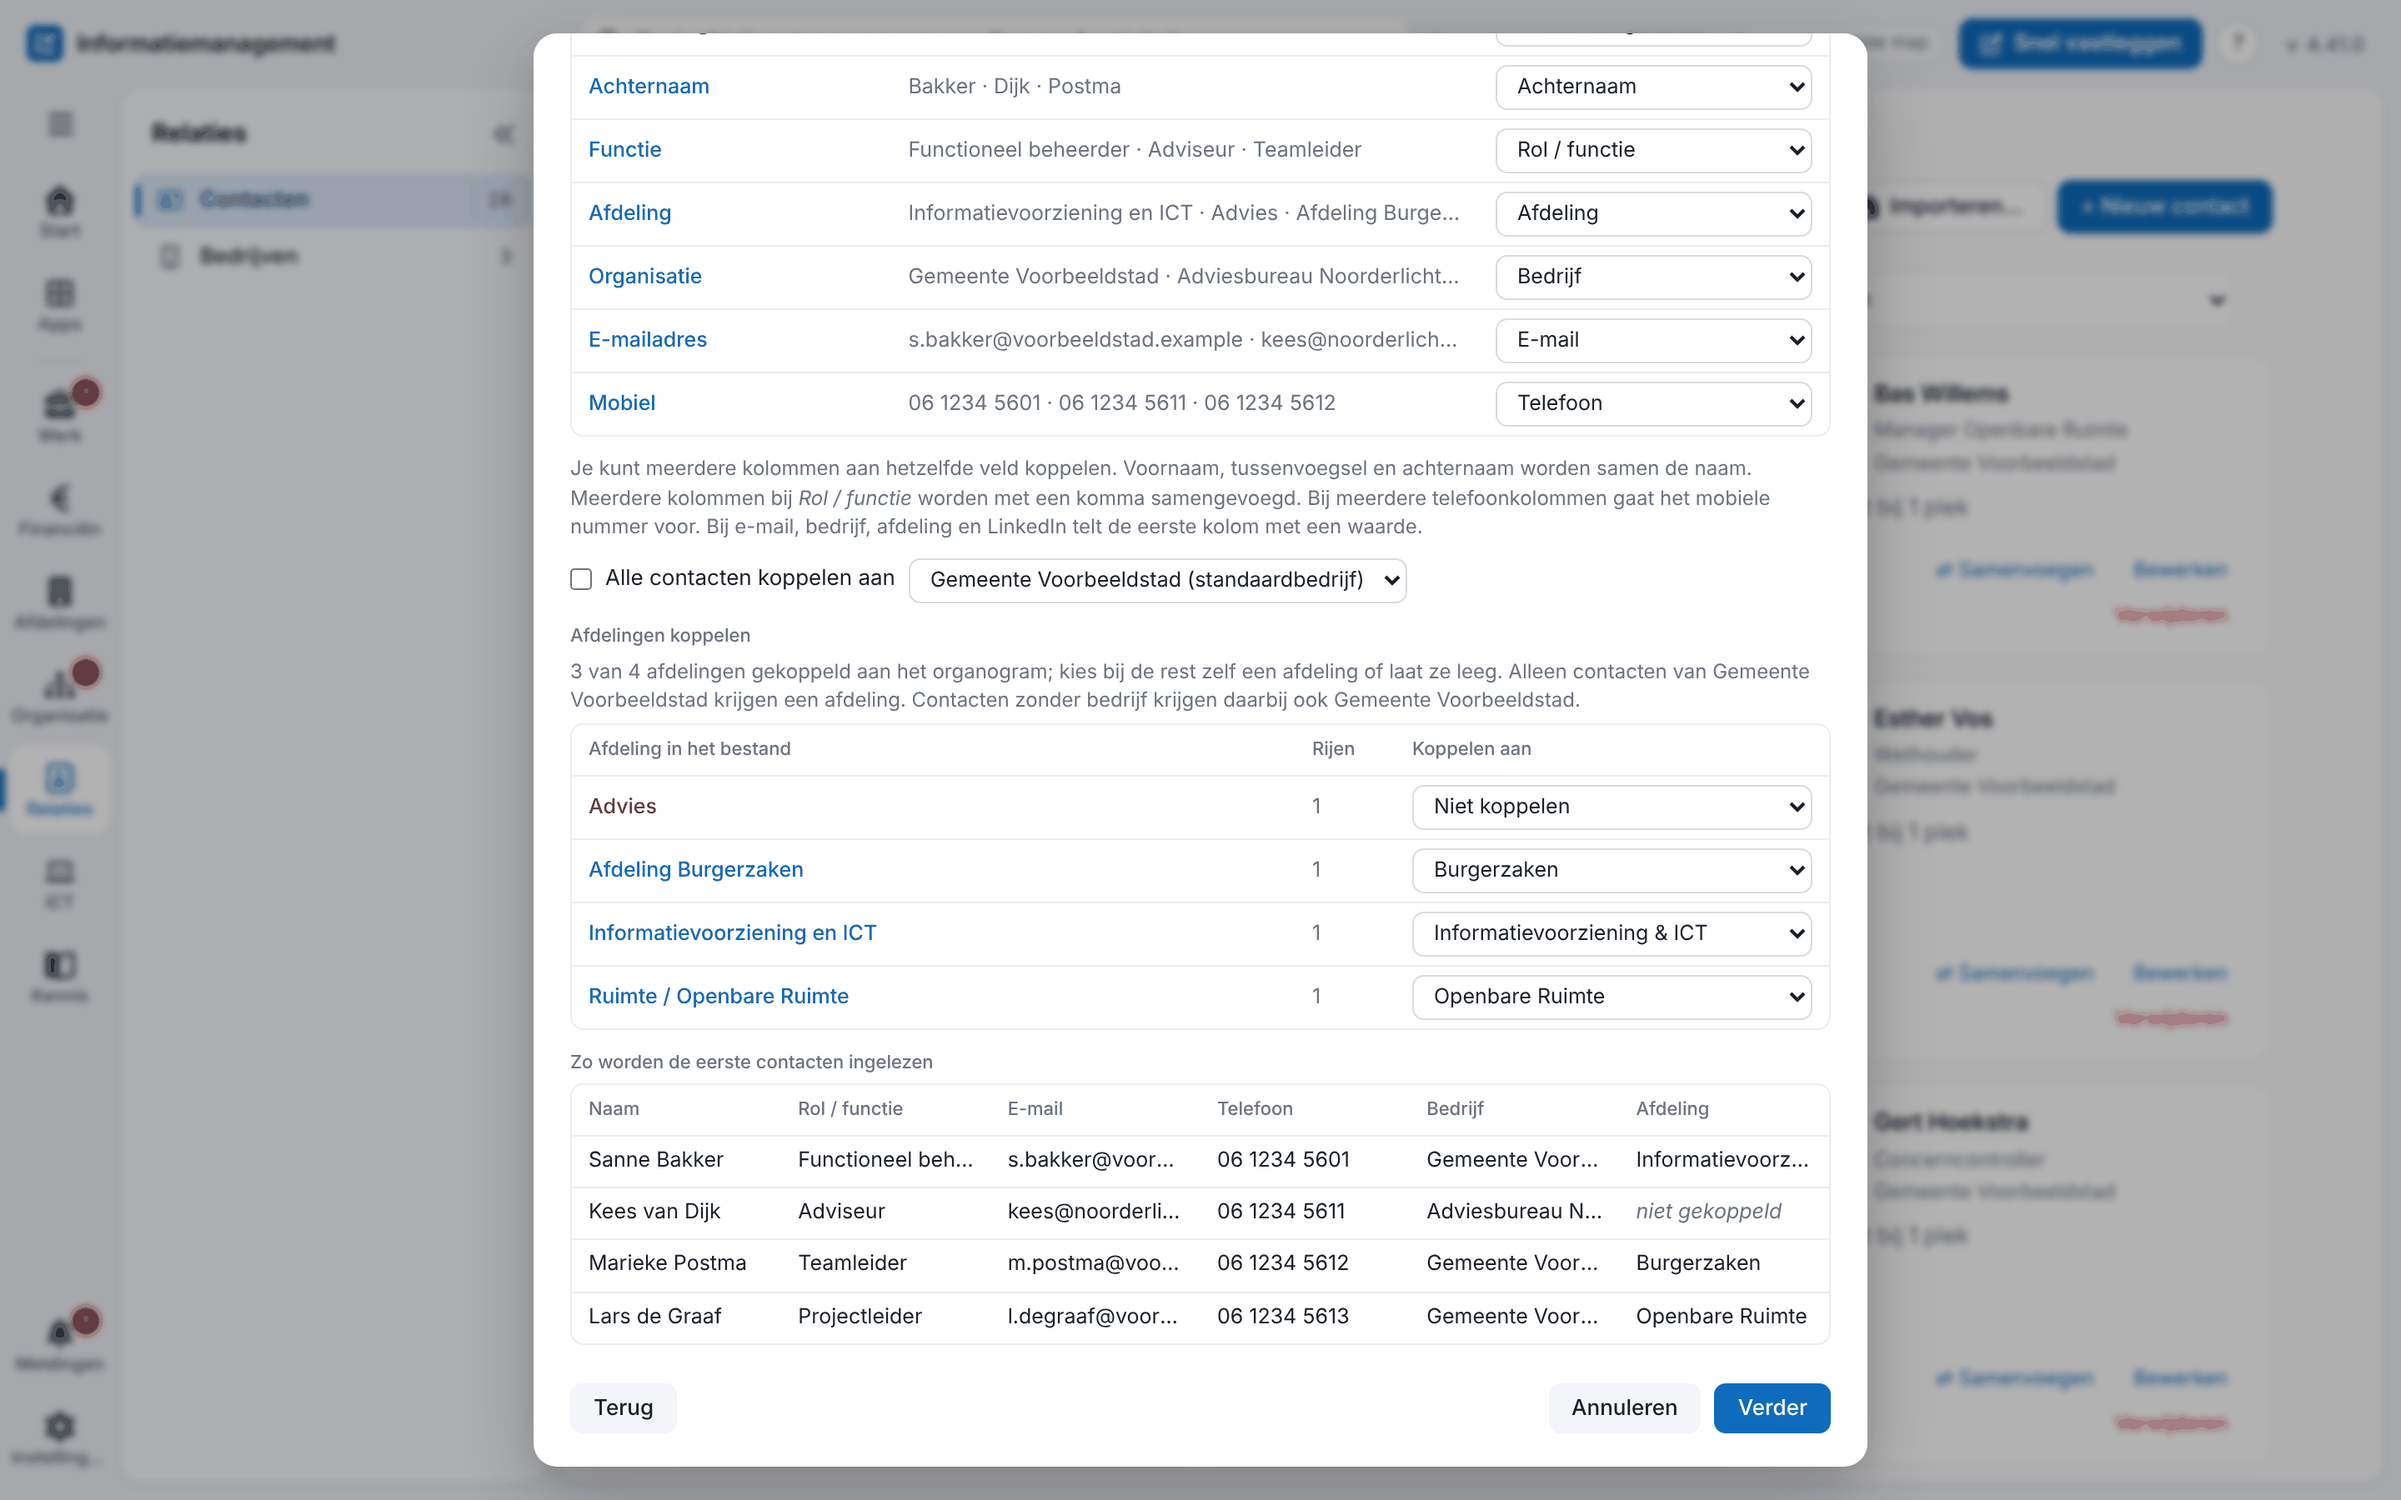
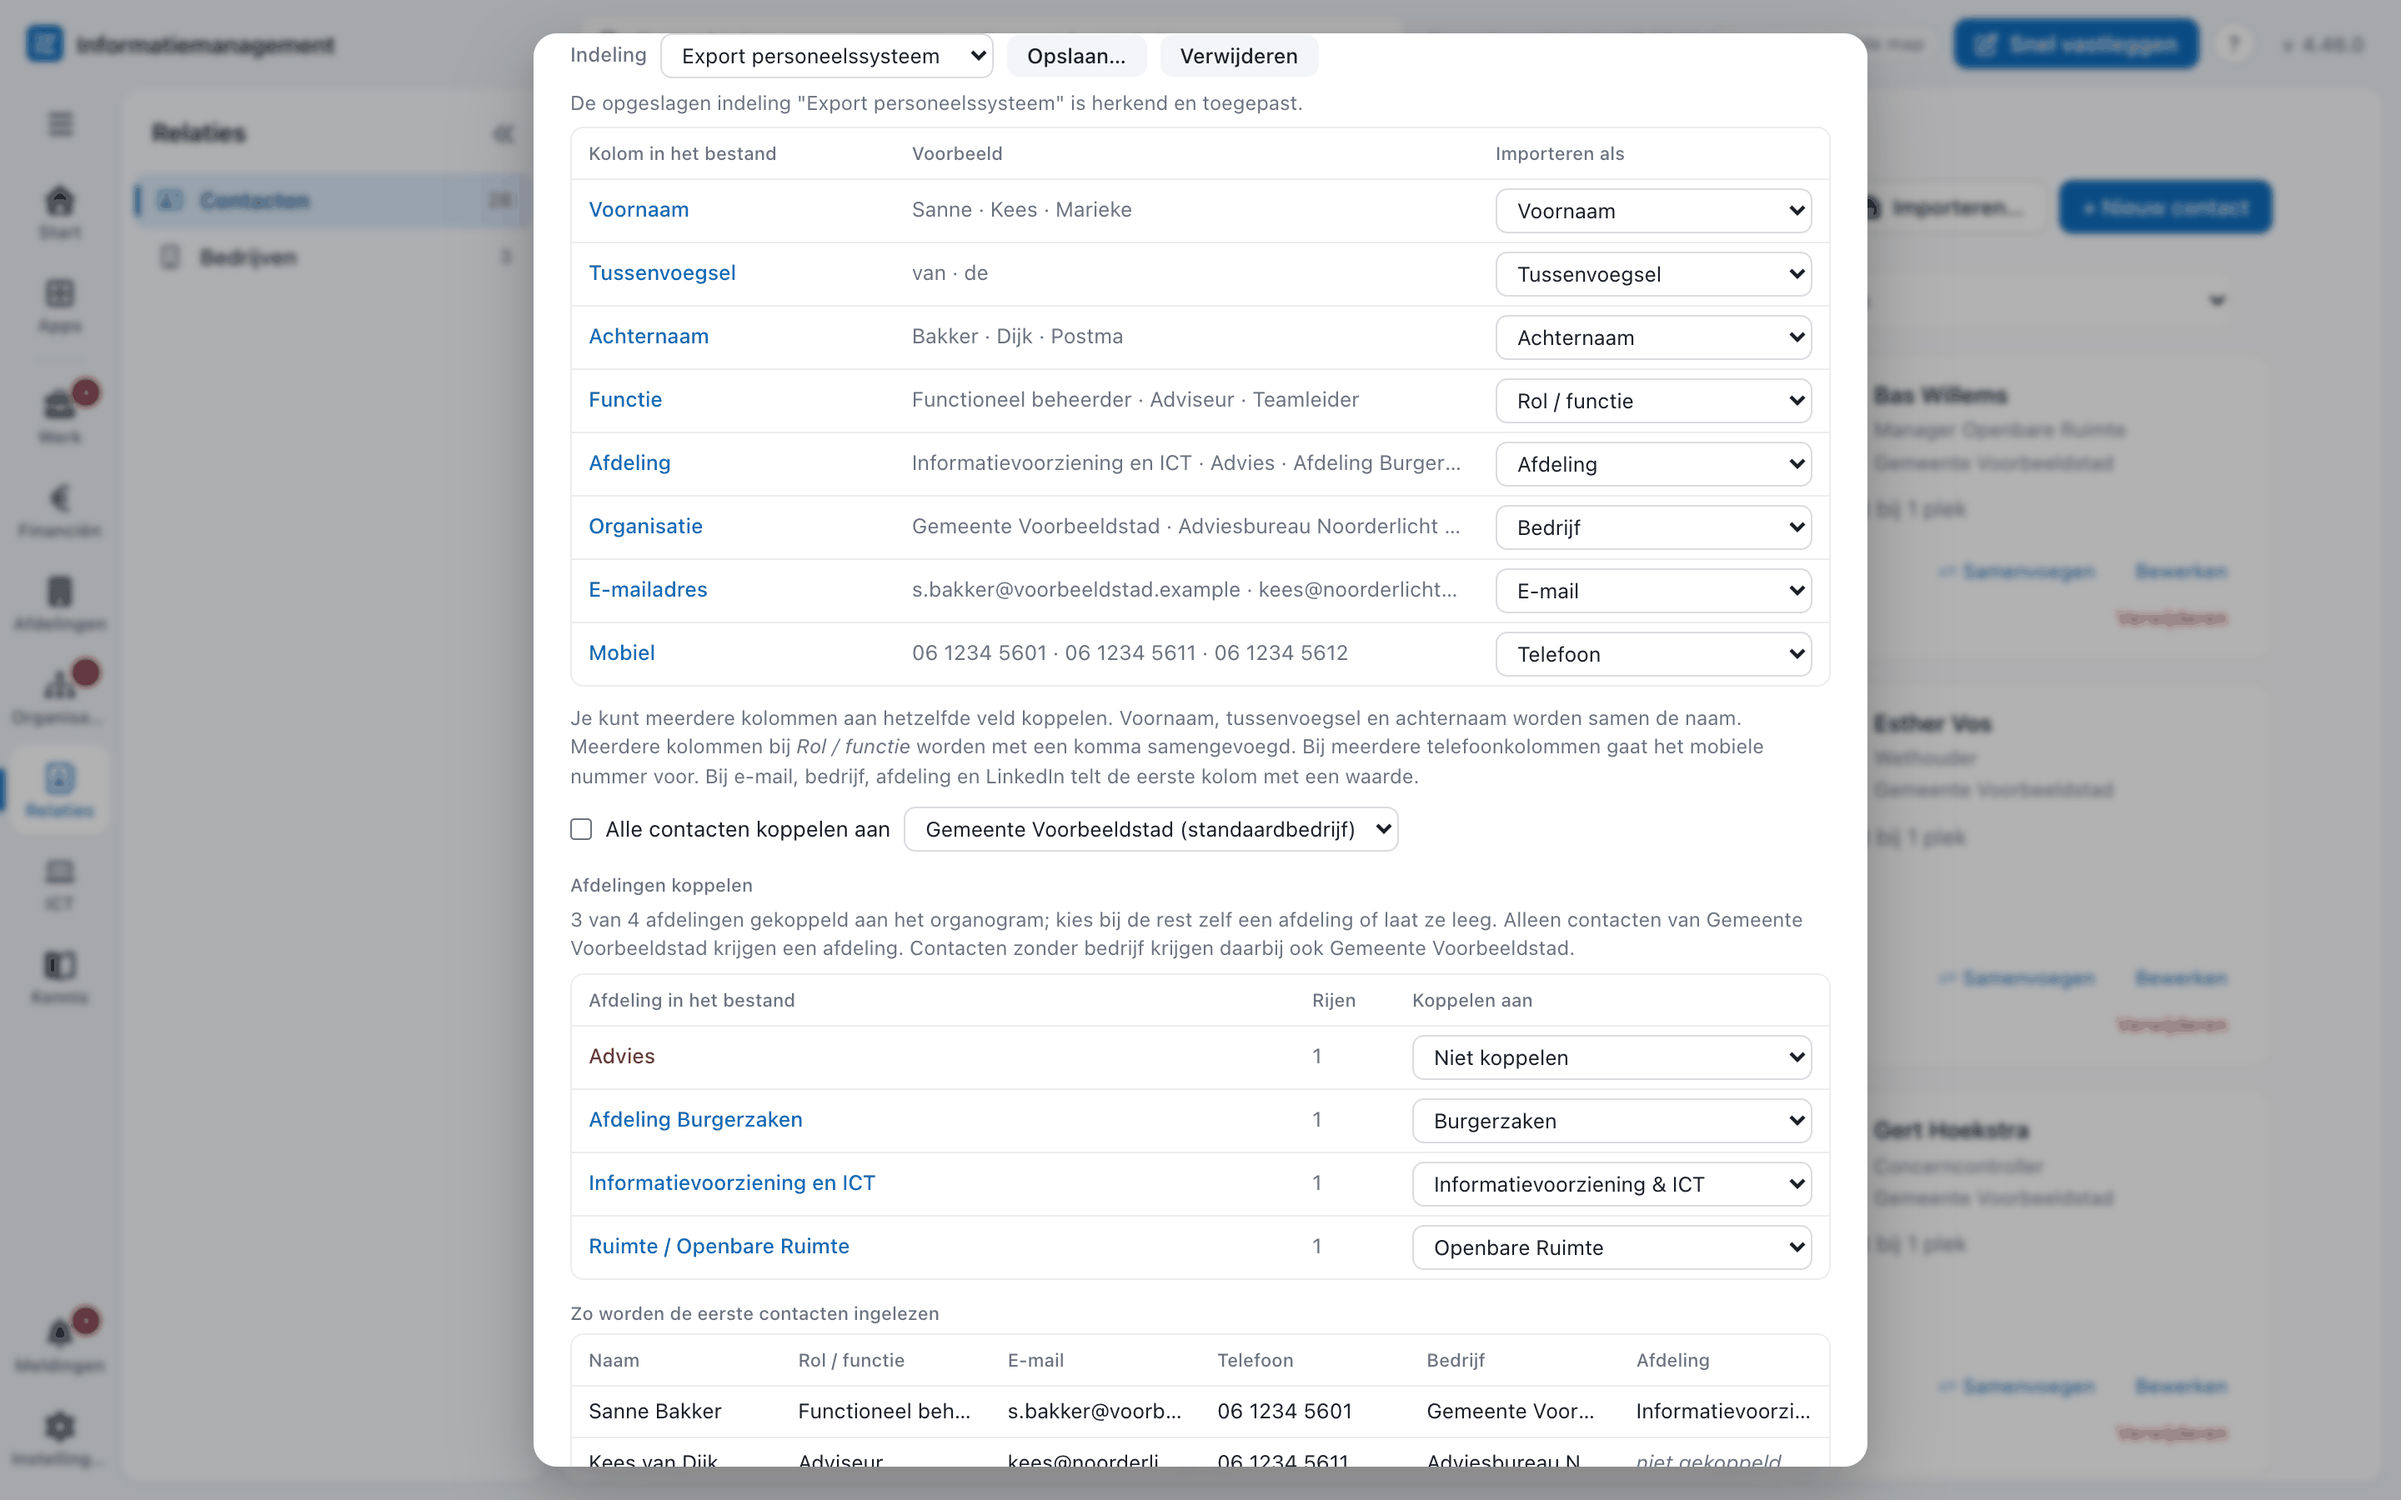
Versie 4.46.1: nieuwe screenshot van Contacten importeren met opgeslagen indeling, rustigere knoppen bij Indeling

diff --git a/index.html b/index.html
@@ -1420,7 +1420,8 @@
   .ci-ind{display:flex;align-items:center;gap:8px;flex-wrap:wrap;margin:0 0 2px}
   .modal .ci-ind label{margin:0;font-size:12px;color:var(--muted);font-weight:500}
   .modal .ci-ind select{width:auto;min-width:200px;max-width:320px;padding:4px 8px;font-size:12.5px}
-  .modal .ci-ind button{padding:4px 12px;font-size:12.5px}
+  .modal .ci-ind button{padding:5px 12px;font-size:12.5px;font-weight:500;border:0;border-radius:7px;background:var(--panel-soft);color:var(--text);cursor:pointer}
+  .modal .ci-ind button:hover{background:#e8e8ed}
   .ci-ind-info{margin:4px 0 10px}
   .ci-ind-info:empty{display:none}
   .ci-scroll{border:1px solid var(--border);border-radius:8px;overflow:auto}
@@ -1961,8 +1962,11 @@
    Single-file HTML tool — data wordt opgeslagen als JSON.
    ============================================================ */
 
-const APP_VERSION = "4.46.0";
+const APP_VERSION = "4.46.1";
 const CHANGELOG = [
+  { version: "4.46.1", datum: "2026-11-23", items: [
+    "Contacten importeren: de knoppen bij Indeling hebben dezelfde rustige stijl als de andere knoppen",
+  ]},
   { version: "4.46.0", datum: "2026-11-23", items: [
     "Contacten importeren: sla de kolomkoppeling op als indeling, bijvoorbeeld per applicatie waar je een export uit haalt",
     "Bij een volgend bestand met dezelfde kolommen herkent de app de indeling en past hij die vanzelf toe, inclusief bedrijf, gekoppelde afdelingen en het omdraaien van namen",

diff --git a/README.md b/README.md
@@ -97,7 +97,7 @@ Deze tool brengt alles samen op één plek, ingedeeld zoals een gemeente werkt: 
 - **Bedrijven** leg je één keer vast en koppel je aan contacten, managers en collegeleden.
 - Optioneel synchroniseer je contacten met een telefoonnummer naar **Contacten op je iPhone en Mac**. Zie [hieronder](#contacten-synchroniseren-met-iphone-en-mac-optioneel).
 
-![Contacten importeren: per kolom kies je het veld, en de afdelingen uit het bestand koppel je aan de afdelingen in je organogram](screenshots/contactimport.png)
+![Contacten importeren: een opgeslagen indeling wordt herkend en toegepast, per kolom zie je het veld, en de afdelingen uit het bestand koppel je aan de afdelingen in je organogram](screenshots/contactimport.png)
 
 ### ICT en kennis
 
